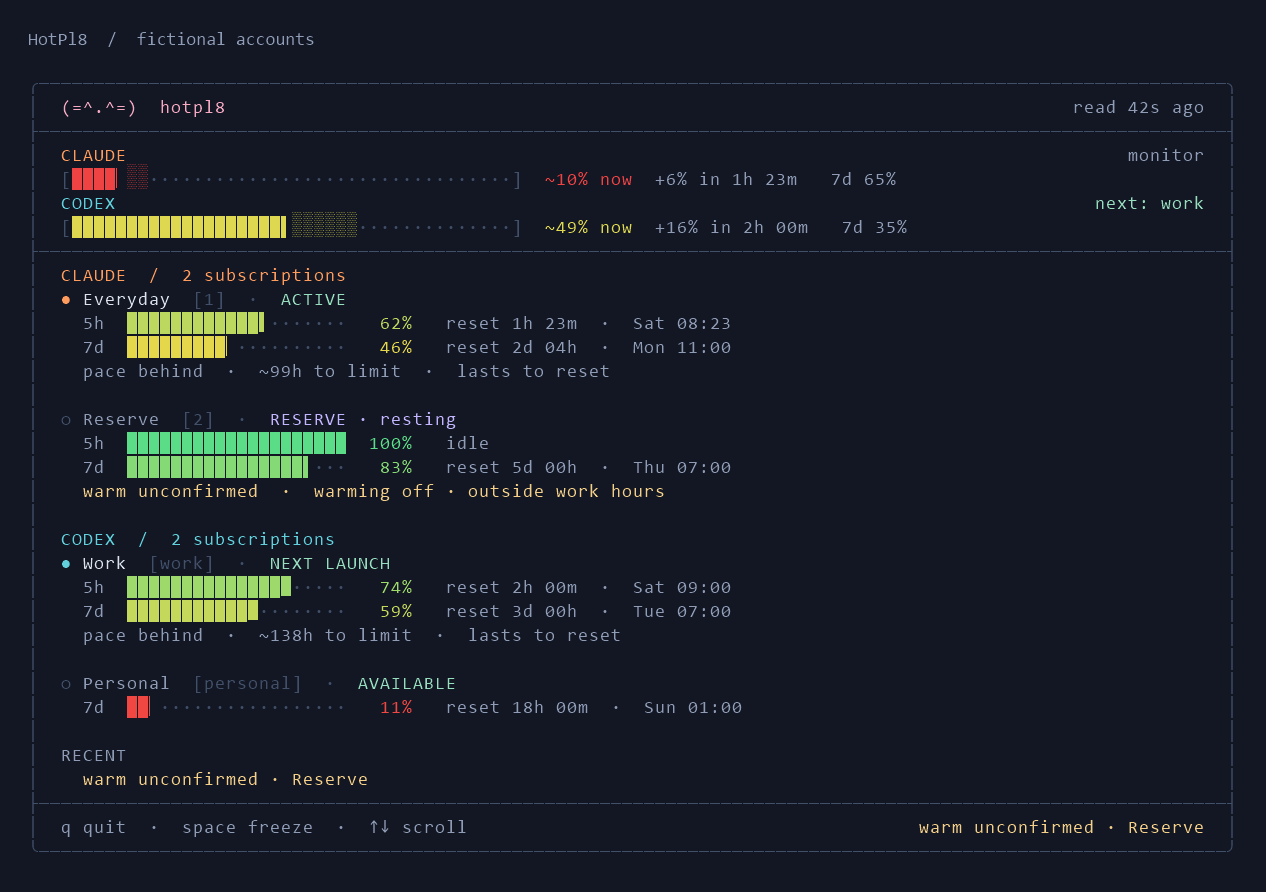
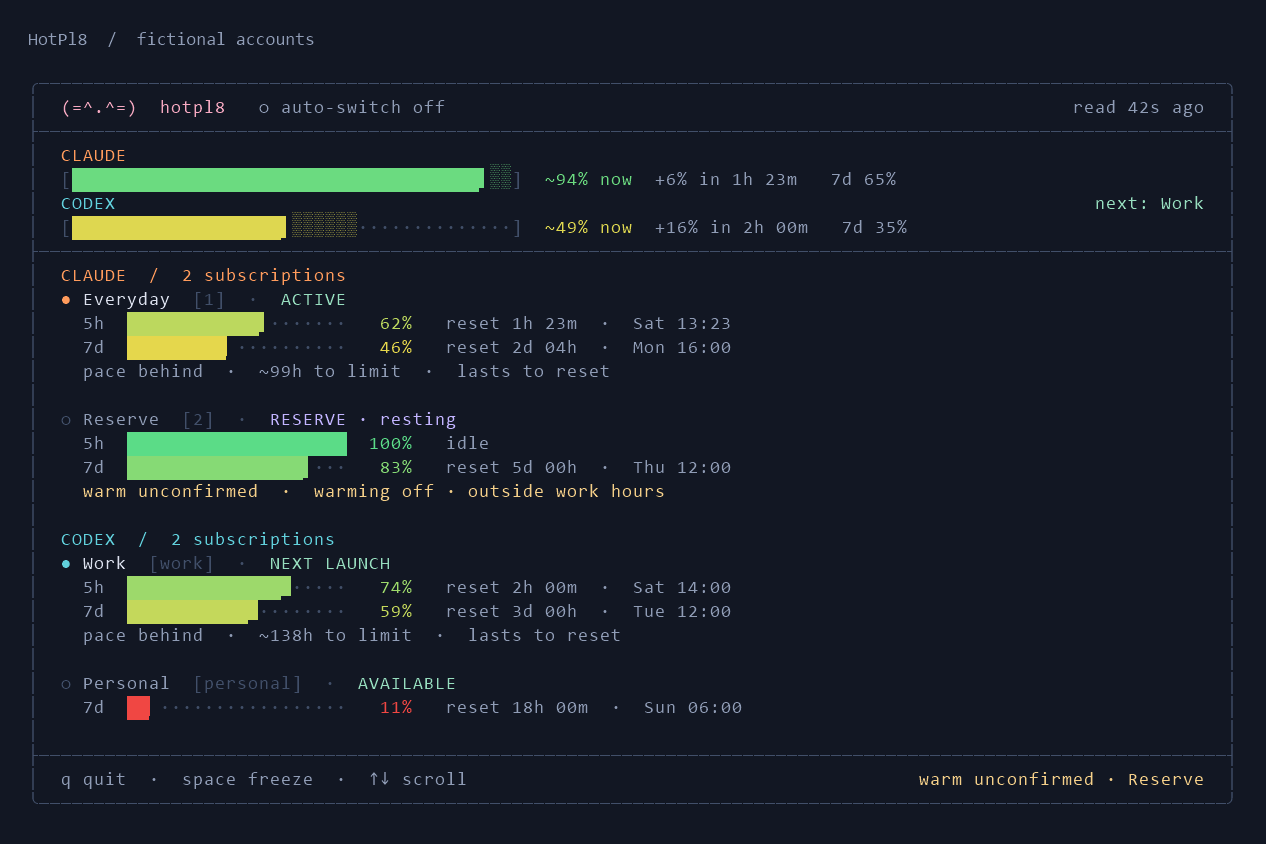
Keep first run quiet and refresh the documentation screenshots
With no account there is nothing to switch between, so the title bar
omits the auto-switch state until an account or a reading exists.

Screenshots are the Windows CI renders of the new title bar, headers and
measured summary bars.

diff --git a/docs/screenshots.md b/docs/screenshots.md
@@ -18,7 +18,7 @@ Change the renderer for a UI change, or the fixture for a different documentatio
 
 `dashboard.png` fixes the opening view at 94 columns by 25 rows. `details.png` renders the last details page at 94 by 34 with the same pinned provider overview. `operations.png` exercises operational detail at 110 by 50. All use the same fixed clock and renderer.
 
-Capacity fixtures declare fictional per-window weights. `nyan.png` uses the bundled attributed animation with a frozen frame; critical/unknown frames should be added or regenerated alongside main/detail screenshots. Both screenshot and terminal paths consume the same sanitized styled spans and palette.
+Capacity fixtures declare fictional per-window weights. `nyan.png` uses the bundled attributed animation with a frozen frame; critical/unknown frames should be added or regenerated alongside main/detail screenshots. `unknown.png` removes the capacity weights, so its bars show the equal-weight `~` estimate. Both screenshot and terminal paths consume the same sanitized styled spans and palette.
 
 `nyan-compact.png` shows the animation at 48 columns by 24 rows. The cat switches between purpose-drawn five-row compact and nine-row original sprites, reserving space for account details. Both use exact palette pixels without interpolation or blur. Playback uses 12 sprite frames per second and approximately 24 starfield updates per second. Background layout keeps periodic dashboard refreshes off the animation thread.
 
